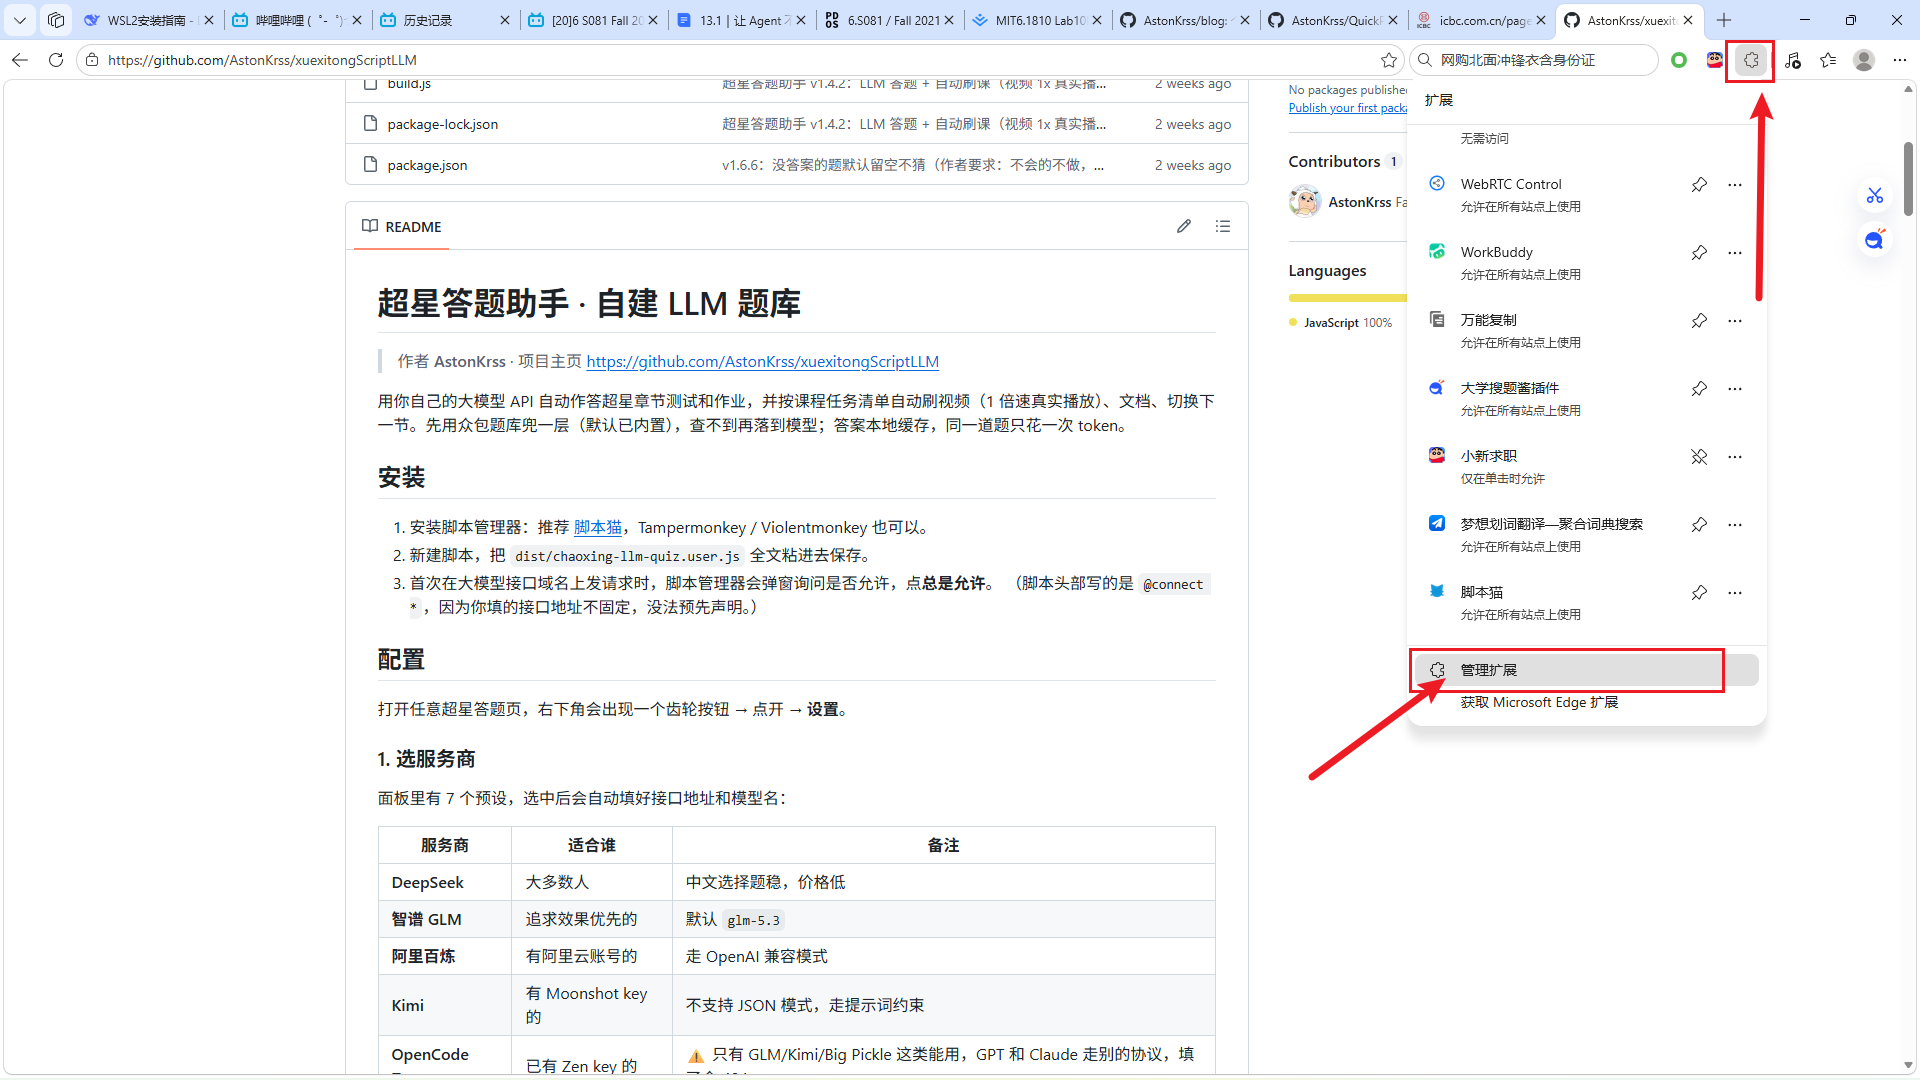
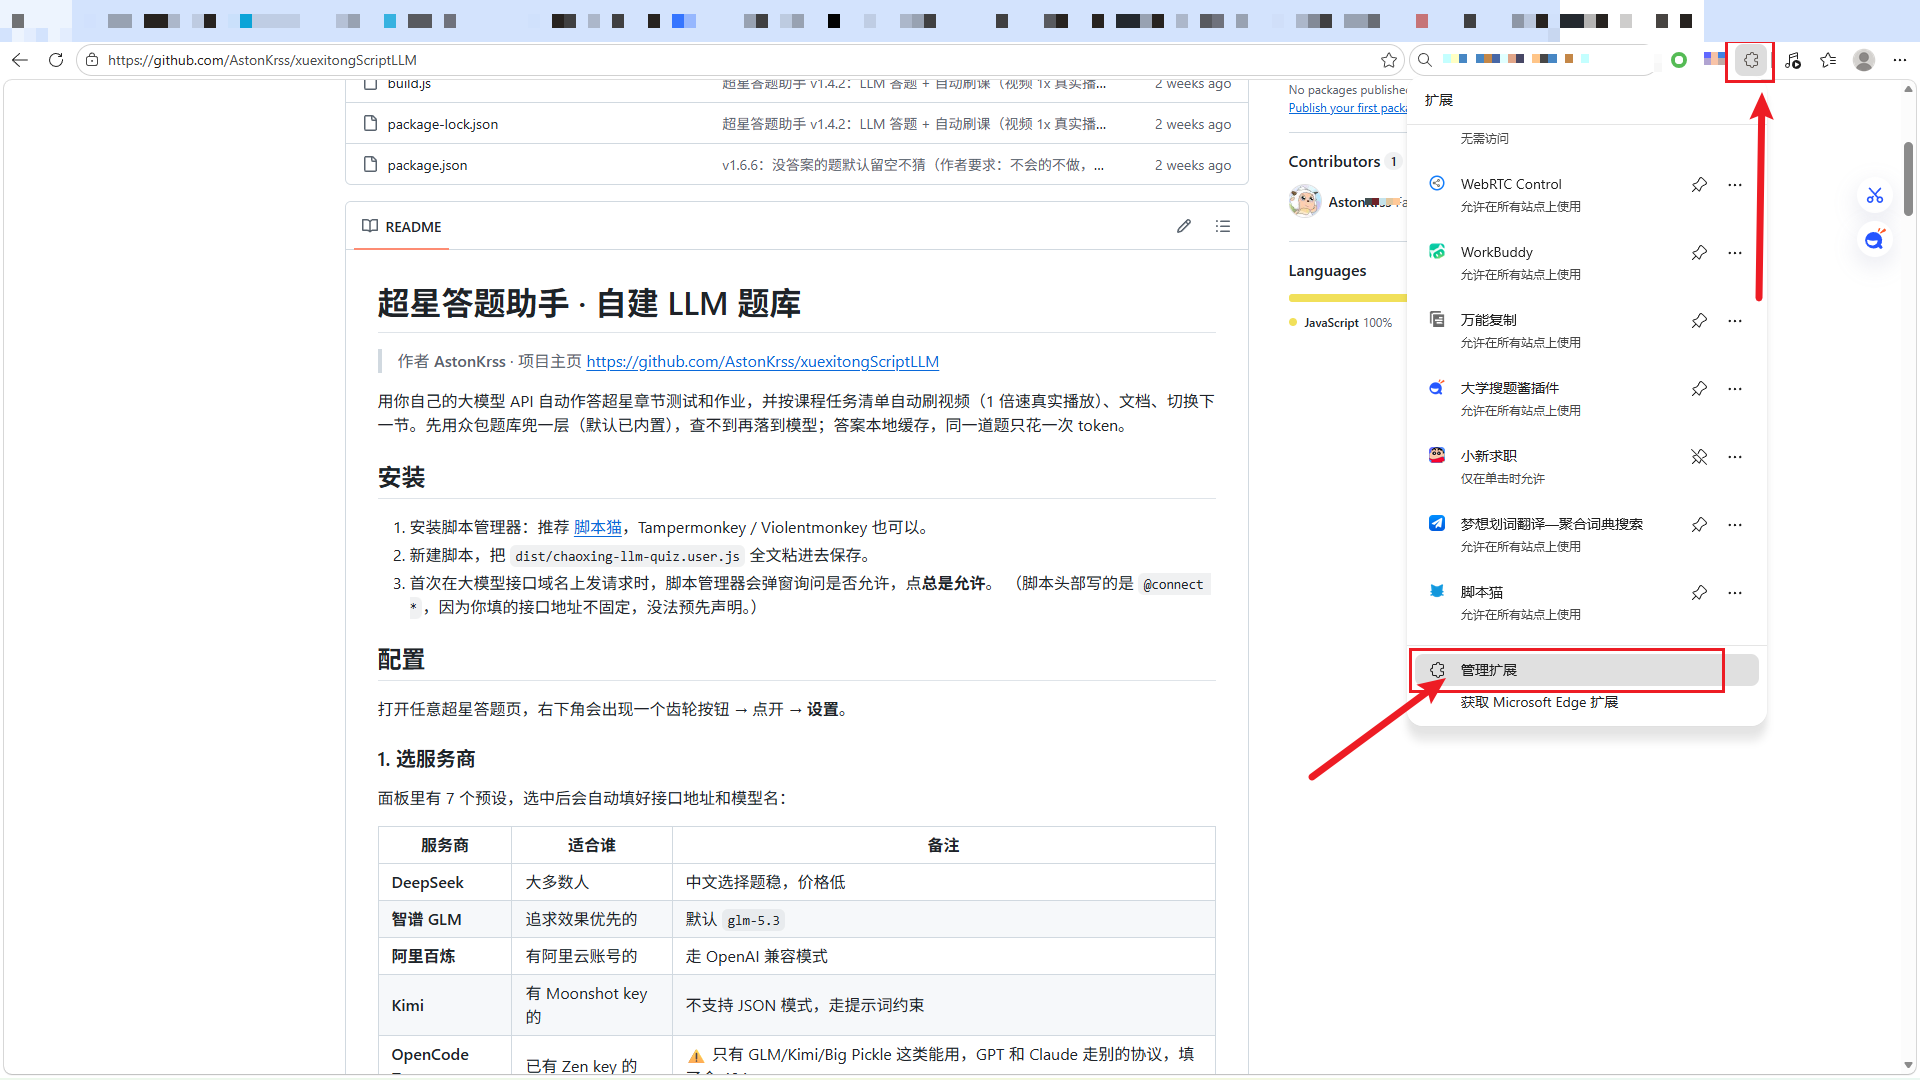
docs: 增加步骤9粘贴保存成功展示图，并对所有教程截图完成隐私打码脱敏

Changed region(s): [[0.2812, 0.0, 0.9062, 0.0611], [0.0, 0.0, 0.25, 0.0306]]

diff --git a/README.md b/README.md
@@ -53,13 +53,18 @@
 
 ![选择脚本文件](docs/images/step7-github-select-userjs.png)
 
-#### 步骤 8：复制代码并粘贴保存
+#### 步骤 8：复制代码并粘贴
 1. 点击右上角代码窗口上方的 **「复制原始文件」按钮（两个重叠小方块的图标）**，或者点击 `Raw` 页面全选（Ctrl+A）并复制（Ctrl+C）全部代码。
 2. 回到步骤 5 中脚本猫打开的代码编辑器，**把里面原本自带的初始代码全部清空**。
 3. 把刚刚复制的脚本完整代码粘贴（Ctrl+V）进去。
-4. 按快捷键 **Ctrl + S**（或者点击编辑器左上角的「文件」→「保存」）进行保存。
 
 ![复制代码并在脚本猫保存](docs/images/step8-github-copy-raw.png)
+
+#### 步骤 9：保存并确认脚本启用
+1. 粘贴完成后，按键盘快捷键 **Ctrl + S**（或者点击编辑器左上角的「文件」→「保存」）进行保存。
+2. 保存成功后，顶部标签页会显示脚本名称 `超星答题助手 · 自建 LL...`，左侧脚本列表中也会出现本脚本且开关处于**开启（蓝色）**状态。
+
+![脚本粘贴并保存成功](docs/images/step9-scriptcat-paste-done.png)
 
 > 💡 **特别提醒**：
 > 1. 保存后打开任意超星学习页或答题页，右下角就会出现蓝色的悬浮齿轮。
